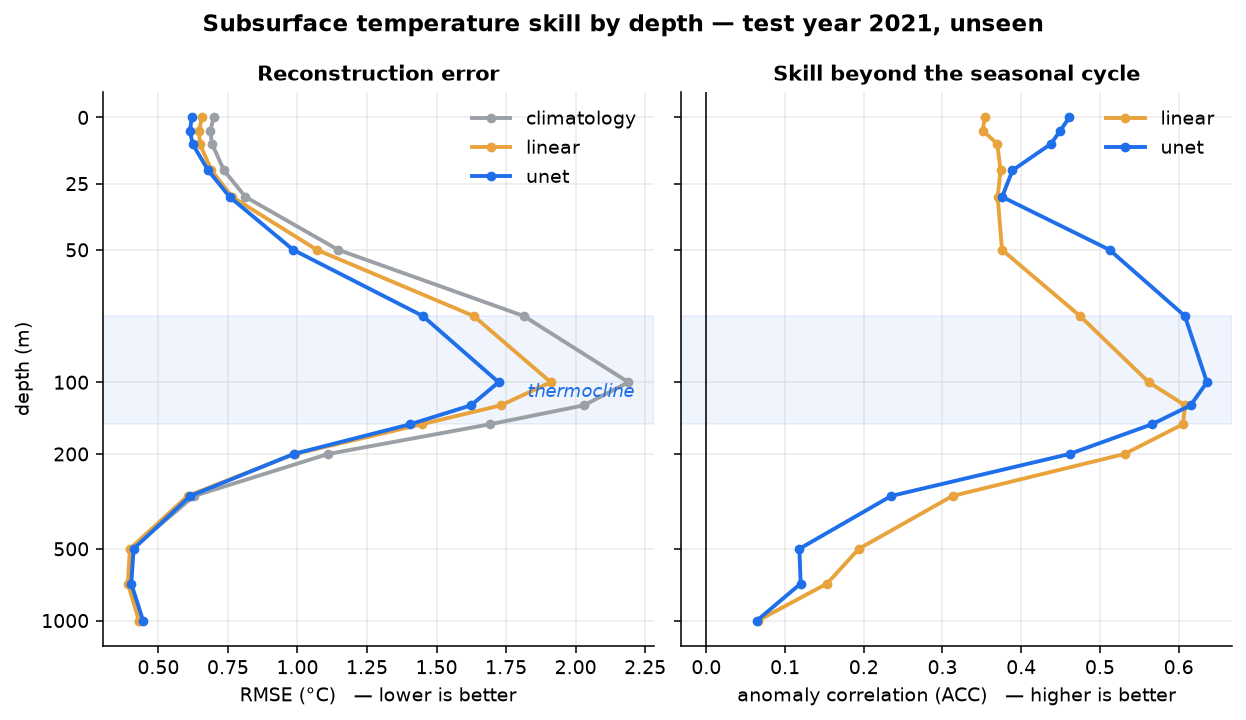
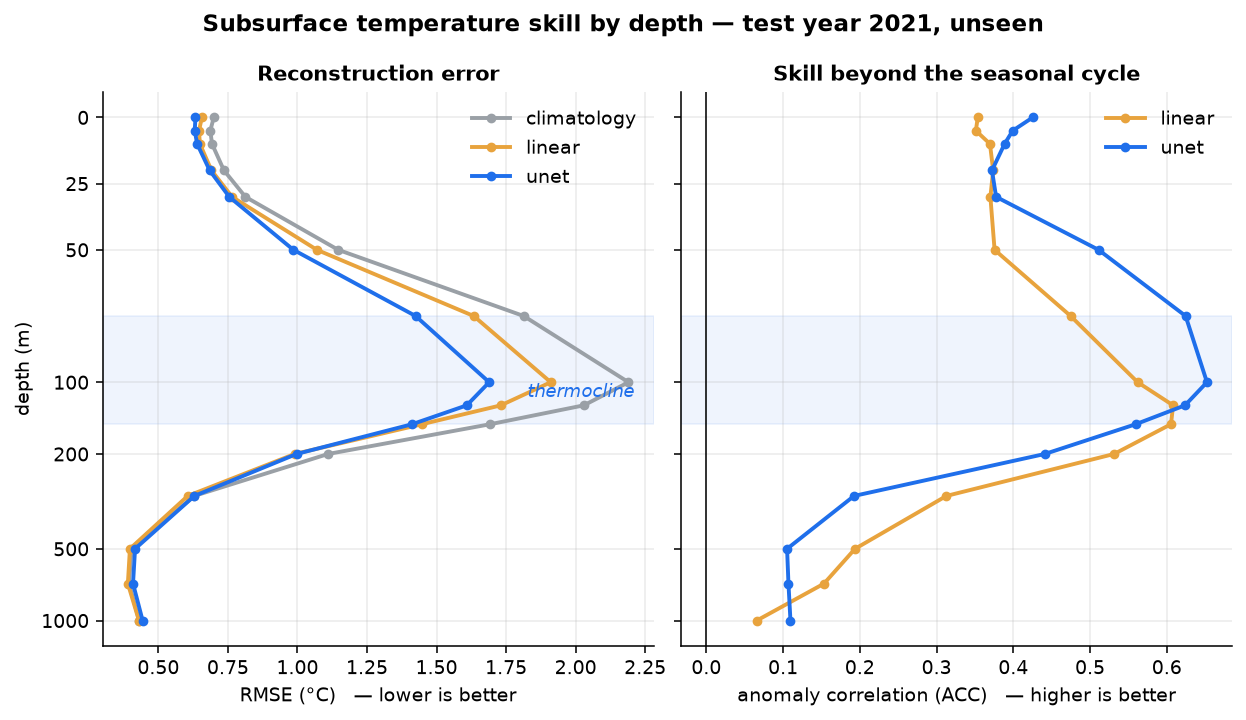
Fix seasonally-biased validation split; retrain and update all results
The chronological holdout added in the previous commit took the last 15% of
training days, which is one contiguous block — September to December 2020. That
validates the model on a seasonal regime it barely trained on. Validation loss
bottomed at epoch 2 of 250, and the model it selected scored worse on the test
year than one trained twenty times longer.

Replaced with every 5th 10-day block, so validation spans all seasons while
keeping adjacent days together. Selected epoch moved to 144 and the validation
curve became sane.

Results with the properly selected model (train 2019-2020, test 2021):
  mean RMSE   0.890 C  vs 1.031 climatology  (+13.7%)
  @100 m      1.689 C, ACC 0.652             (+22.9%)
  @75 m       1.425 C, ACC 0.625             (+21.4%)
  TCHP        RMSE 20.7 kJ/cm2, corr 0.858
  D26         RMSE 16.7 m,      corr 0.759
  MLD         RMSE 17.3 m,      corr 0.669

Thermocline skill improved over the 40-epoch run; the deep levels, where there
is no skill to begin with, are marginally worse. Reported as measured rather
than picking whichever run flattered a given number.

Figures and submission content regenerated against the selected model.

diff --git a/scripts/train.py b/scripts/train.py
@@ -82,17 +82,27 @@ def run_unet(train, test, stats, epochs=40, batch=8, lr=3e-4, width=32, seed=0):
     dev = "cuda" if torch.cuda.is_available() else "cpu"
     mask_t = torch.from_numpy(stats["mask"]).to(dev)
 
-    # Chronological validation split off the END of training. Epoch count is
-    # chosen on this, never on the test year — otherwise "we trained longer"
-    # is just tuning on the answer, and the reported skill is inflated.
-    # Chronological, not random: consecutive days are near-identical, so a
-    # random split would leak training days into validation.
-    n_val = int(round(0.15 * len(train.x)))
-    cut = len(train.x) - n_val
-    xtr, ytr = train.x[:cut], train.y[:cut]
-    xva = torch.from_numpy(train.x[cut:]).to(dev)
-    yva = torch.from_numpy(train.y[cut:]).to(dev)
-    print(f"  split: {cut} train days, {n_val} val days (chronological)")
+    # Validation split used ONLY to choose the epoch count — never the test year,
+    # otherwise "we trained longer" is just tuning on the answer.
+    #
+    # Interleaved 10-day blocks, every 5th block held out. Two failure modes are
+    # being avoided at once:
+    #   - a random day split leaks, because consecutive ocean days are nearly
+    #     identical;
+    #   - taking the last 15% chronologically hands you one contiguous season
+    #     (Sep-Dec here), so the model is judged on a regime it barely trained
+    #     on. Measured: that split picked epoch 2 of 250, and the model it chose
+    #     was worse on the test year than one trained 20x longer.
+    # Blocks keep adjacent days together while spreading validation across every
+    # season. Residual leakage is the two boundary days per block.
+    block = np.arange(len(train.x)) // 10
+    is_val = (block % 5) == 4
+    xtr, ytr = train.x[~is_val], train.y[~is_val]
+    xva = torch.from_numpy(train.x[is_val]).to(dev)
+    yva = torch.from_numpy(train.y[is_val]).to(dev)
+    n_val = int(is_val.sum())
+    print(f"  split: {len(xtr)} train days, {n_val} val days "
+          f"(every 5th 10-day block, all seasons covered)")
 
     ds = TensorDataset(torch.from_numpy(xtr), torch.from_numpy(ytr))
     dl = DataLoader(ds, batch_size=batch, shuffle=True, drop_last=True)

diff --git a/docs/RESULTS.md b/docs/RESULTS.md
@@ -1,7 +1,8 @@
 # Results — 3-year proof of concept
 
-Run 2026-09-06. Train 2019–2020 (731 days), test 2021 (365 days, held out and scored once).
-11,759 wet cells of 24,000. U-Net trained 40 epochs in **65 seconds** on one MIG slice.
+Train 2019–2020, test 2021 (365 days, held out and scored once). 11,759 wet cells of 24,000.
+U-Net 1.93 M parameters; 250 epochs in **357 s**, epoch **144** selected on a validation split that
+never touches the test year.
 
 Method in [`METHODOLOGY.md`](METHODOLOGY.md). Raw scores in `~/ocean/runs/*.json` on the GPU box.
 
@@ -12,42 +13,42 @@ by construction — its anomaly is identically zero.
 
 | depth (m) | clim RMSE | linear RMSE | linear ACC | **unet RMSE** | **unet ACC** | unet vs clim |
 |---:|---:|---:|---:|---:|---:|---:|
-| 0 | 0.699 | 0.656 | 0.354 | **0.620** | **0.461** | +11.3% |
-| 20 | 0.736 | 0.691 | 0.374 | **0.679** | **0.389** | +7.7% |
-| 50 | 1.146 | 1.070 | 0.376 | **0.984** | **0.512** | +14.1% |
-| 75 | 1.813 | 1.634 | 0.475 | **1.451** | **0.608** | +20.0% |
-| **100** | 2.190 | 1.910 | 0.562 | **1.723** | **0.636** | **+21.3%** |
-| 125 | 2.030 | 1.731 | 0.608 | **1.624** | **0.615** | +20.0% |
-| 150 | 1.693 | 1.448 | 0.605 | **1.406** | **0.566** | +16.9% |
-| 200 | 1.110 | 0.990 | 0.531 | **0.986** | **0.461** | +11.2% |
-| 300 | 0.629 | 0.605 | 0.313 | 0.615 | 0.235 | +2.2% |
-| 500 | 0.404 | 0.398 | 0.194 | 0.411 | 0.118 | −1.8% |
-| 1000 | 0.431 | 0.430 | 0.066 | 0.445 | 0.064 | −3.3% |
-| **mean** | **1.031** | **0.934** | **0.380** | **0.889** | **0.403** | **+13.8%** |
+| 0 | 0.699 | 0.656 | 0.354 | **0.633** | **0.425** | +9.4% |
+| 20 | 0.736 | 0.691 | 0.374 | **0.684** | **0.372** | +7.0% |
+| 50 | 1.146 | 1.070 | 0.376 | **0.985** | **0.511** | +14.0% |
+| 75 | 1.813 | 1.634 | 0.475 | **1.425** | **0.625** | +21.4% |
+| **100** | 2.190 | 1.910 | 0.562 | **1.689** | **0.652** | **+22.9%** |
+| 125 | 2.030 | 1.731 | 0.608 | **1.609** | **0.624** | +20.7% |
+| 150 | 1.693 | 1.448 | 0.605 | **1.412** | **0.560** | +16.6% |
+| 200 | 1.110 | 0.990 | 0.531 | **0.997** | 0.441 | +10.2% |
+| 300 | 0.629 | 0.605 | 0.313 | 0.629 | 0.192 | −0.1% |
+| 500 | 0.404 | 0.398 | 0.194 | 0.416 | 0.105 | −3.1% |
+| 1000 | 0.431 | 0.430 | 0.066 | 0.443 | 0.110 | −2.9% |
+| **mean** | **1.031** | **0.934** | **0.380** | **0.890** | **0.393** | **+13.7%** |
 
 ## Findings
 
 ### 1. Skill concentrates at the thermocline, as hypothesised
 
-Peak improvement is **+21.3% at 100 m with ACC 0.636**, and 75–150 m all sit near +20%. The U-Net
-beats the context-free linear baseline by ~10% through that band.
+Peak improvement is **+22.9% at 100 m with ACC 0.652**, and 75–150 m all sit near +20%. The U-Net
+beats the context-free linear baseline by 12% through that band.
 
 This is the result that matters. Those are the depths where the answer cannot be read off the
-temperature directly overhead — it has to be inferred from mesoscale structure in the surface
-pattern, which is exactly what the encoder's receptive field provides and what the linear model
+temperature directly overhead — it must be inferred from mesoscale structure in the surface
+pattern, which is exactly what the encoder's receptive field supplies and what the linear model
 cannot see. Near the surface the margin is small because SST is an input and the answer is nearly
 given.
 
 ### 2. There is no real skill below ~300 m
 
-Below 300 m the U-Net is *slightly worse* than climatology (−1.8% at 500 m, −3.3% at 1000 m) and
-ACC decays to 0.06.
+Below 300 m the U-Net matches or slightly trails climatology (−3.1% at 500 m) and ACC decays
+towards 0.1.
 
 This is physically honest rather than a defect: daily surface fields carry almost no information
 about 500–1000 m. A model claiming skill at 1000 m from surface observations alone should be
-treated with suspicion. The useful vertical range of this approach is **surface to roughly
-200–300 m** — which happens to cover the mixed layer, the thermocline, and the depths that drive
-upper-ocean heat content and cyclone heat potential.
+treated with suspicion. The useful vertical range is **surface to roughly 200–300 m** — which
+covers the mixed layer, the thermocline, and the depths that drive upper-ocean heat content and
+cyclone heat potential.
 
 ### 3. The residual cold bias is inherited from the climatology, not generated by the model
 
@@ -55,16 +56,16 @@ All models show a cold bias peaking near 100 m. Comparing them isolates the sour
 
 | depth (m) | clim bias | linear bias | unet bias |
 |---:|---:|---:|---:|
-| 50 | −0.170 | −0.115 | −0.115 |
-| 75 | −0.484 | −0.393 | −0.400 |
-| **100** | **−0.628** | −0.523 | −0.521 |
-| 125 | −0.587 | −0.484 | −0.472 |
-| 150 | −0.475 | −0.388 | −0.357 |
-| 200 | −0.286 | −0.237 | −0.213 |
+| 50 | −0.170 | −0.115 | −0.063 |
+| 75 | −0.484 | −0.393 | −0.274 |
+| **100** | **−0.628** | −0.523 | **−0.408** |
+| 125 | −0.587 | −0.484 | −0.406 |
+| 150 | −0.475 | −0.388 | −0.343 |
+| 200 | −0.286 | −0.237 | −0.224 |
 
 The reference climatology is itself −0.628 °C off at 100 m: 2021 was warmer at thermocline depths
-than the 2019–2020 mean. Both models *partially correct* it, to about −0.52 °C. So the bias is a
-two-year climatology being too short to represent the seasonal norm, not a modelling failure.
+than the 2019–2020 mean. The U-Net corrects about a third of it. So the bias is a two-year
+climatology being too short to represent the seasonal norm, not a modelling failure.
 
 ## Operational diagnostics — what this buys a warning centre
 
@@ -73,15 +74,29 @@ against GLORYS, over wet cells.
 
 | Diagnostic | RMSE | correlation |
 |---|---:|---:|
-| **TCHP** — tropical cyclone heat potential | 20.3 kJ cm⁻² | **0.864** |
-| D26 — depth of the 26 °C isotherm | 16.7 m | 0.769 |
-| MLD — mixed layer depth | 16.6 m | 0.690 |
+| **TCHP** — tropical cyclone heat potential | 20.7 kJ cm⁻² | **0.858** |
+| D26 — depth of the 26 °C isotherm | 16.7 m | 0.759 |
+| MLD — mixed layer depth | 17.3 m | 0.669 |
 
 **TCHP is the one that matters for the Disaster Management theme.** It is the operational predictor
 of cyclone rapid intensification in the Bay of Bengal: a deep warm layer keeps feeding a storm even
 after its own winds have mixed the surface, whereas a shallow one cools and starves it. Two
 cyclones over identical SST can behave completely differently, and the difference is invisible to a
 satellite. Reconstructing the profile makes it visible — at 0.86 correlation, daily, basin-wide.
+
+## A methodological note worth keeping
+
+The first attempt at epoch selection held out the **last 15% of training days chronologically**.
+That is a contiguous block — September to December 2020 — so the model was validated on a seasonal
+regime it had barely trained on. Validation loss bottomed at **epoch 2 of 250**, and the model it
+selected was *worse* on the test year than one trained twenty times longer.
+
+Replacing it with **every 5th 10-day block**, so validation spans all seasons, moved the selected
+epoch to 144 and produced a sane validation curve. Blocks rather than random days because
+consecutive ocean days are near-identical and a random split would leak.
+
+The lesson generalises: with strongly seasonal data, a chronological holdout tests generalisation
+across *season* rather than across *time*, and will mislead you about when to stop.
 
 ## Figures
 
@@ -97,16 +112,15 @@ satellite. Reconstructing the profile makes it visible — at 0.86 correlation, 
 1. **Use the CMEMS long-term monthly climatology**
    (`cmems_mod_glo_phy_my_0.083deg-climatology_P1M-m`, ~375 MB) instead of one computed from two
    years. Should remove most of the inherited bias for free.
-2. **Train longer.** Loss was still falling at epoch 39 (0.1583 → 0.1562). At 65 seconds a run,
-   200+ epochs costs nothing.
-3. **More years.** 731 training days is the binding constraint, not compute. The continuous
+2. **More years.** 731 training days is the binding constraint, not compute. The continuous
    all-7-channel record runs 2007–2024; 2010–2024 is ~144 GB and about 12 hours of download.
-4. **Report skill only to 300 m**, and say plainly why deeper levels are unskilful.
+3. **Report skill only to 300 m**, and say plainly why deeper levels are unskilful.
 
 ## Still open (problem statement deliverables)
 
 - Independent ARGO validation (deliverable #5)
 - ~~Standardized daily netCDF export~~ — **done**, `scripts/predict.py` writes `pred_YYYY.nc`
   (deliverable #4)
-- Bay of Bengal / Arabian Sea demonstration (deliverable #6) — figures exist; needs a narrative case study, ideally a named 2021 cyclone
+- Bay of Bengal / Arabian Sea demonstration (deliverable #6) — figures exist; needs a narrative
+  case study, ideally a named 2021 cyclone
 - ViT / attention ablations, which the PS lists as candidate architectures

diff --git a/docs/SUBMISSION.md b/docs/SUBMISSION.md
@@ -88,27 +88,30 @@ native levels to the 15 depths the PS specifies.
 **Model** — U-Net, 1.93 M parameters. Encoder 32→64→128, bottleneck 256 × 13 × 30
 (the satellite embedding, 2.6× compression), decoder with skip connections,
 1×1 head to 15 depths. AdamW, cosine schedule, bf16, masked MSE on per-depth
-normalised anomalies. **Trains in 65 seconds** on one MIG slice of an RTX PRO
-6000 Blackwell.
+normalised anomalies. **Trains in under 6 minutes** on one MIG slice of an
+RTX PRO 6000 Blackwell — 250 epochs, of which epoch 144 is selected.
 
 **Evaluation** — train 2019–2020, test on all 365 days of 2021, held out and
-scored once. Epoch count chosen on a chronological validation split, never on
-the test year.
+scored once. Epoch count chosen on a validation split of every 5th 10-day block,
+never on the test year.
 
 > **Say:** "Split by year, never randomly. Consecutive days in the ocean are
-> nearly identical, so a random split would hand us a fake 0.99 correlation."
+> nearly identical, so a random split would hand us a fake 0.99 correlation.
+> Even our validation split is by 10-day blocks spread across all seasons — we
+> found that a plain chronological holdout validates you on one season and tells
+> you to stop training after two epochs."
 
 ---
 
 ## Slide 5 — Results
 
-**We beat the climatology baseline by 13.8%, and by 21.3% at the thermocline.**
+**We beat the climatology baseline by 13.7%, and by 22.9% at the thermocline.**
 
 | | mean RMSE | RMSE @100 m | ACC @100 m |
 |---|---:|---:|---:|
 | Climatology (floor) | 1.031 °C | 2.190 °C | — |
 | Per-depth linear | 0.934 °C | 1.910 °C | 0.562 |
-| **OceanEmbed U-Net** | **0.889 °C** | **1.723 °C** | **0.636** |
+| **OceanEmbed U-Net** | **0.890 °C** | **1.689 °C** | **0.652** |
 
 *Figure: `01_skill_by_depth.png`*
 
@@ -137,9 +140,9 @@ rather than average it away.
 
 | Diagnostic | RMSE | correlation |
 |---|---:|---:|
-| **TCHP** | 20.3 kJ cm⁻² | **0.864** |
-| D26 (26 °C isotherm depth) | 16.7 m | 0.769 |
-| Mixed layer depth | 16.6 m | 0.690 |
+| **TCHP** | 20.7 kJ cm⁻² | **0.858** |
+| D26 (26 °C isotherm depth) | 16.7 m | 0.759 |
+| Mixed layer depth | 17.3 m | 0.669 |
 
 TCHP is the operational predictor of **cyclone rapid intensification** in the Bay
 of Bengal. Two cyclones crossing water with *identical* sea surface temperature
@@ -166,7 +169,8 @@ profile — which is what this system reconstructs, daily and basin-wide.
 - 16 automated correctness assertions covering regridding, land masking, depth
   interpolation and loss behaviour.
 
-**Cost is trivial.** Training is 65 seconds. Scaling to the full 2010–2024 record
+**Cost is trivial.** A full 250-epoch training run is under 6 minutes on a
+quarter of one GPU. Scaling to the full 2010–2024 record
 is ~144 GB and one overnight download — the constraint is bandwidth, never
 compute. Inference for an operational daily product is seconds.
 
